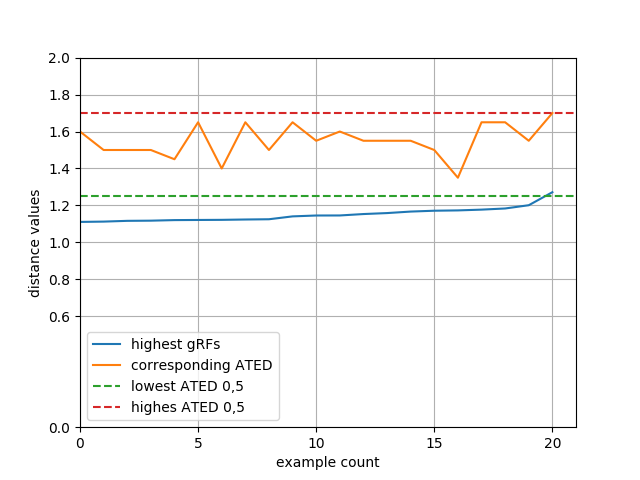
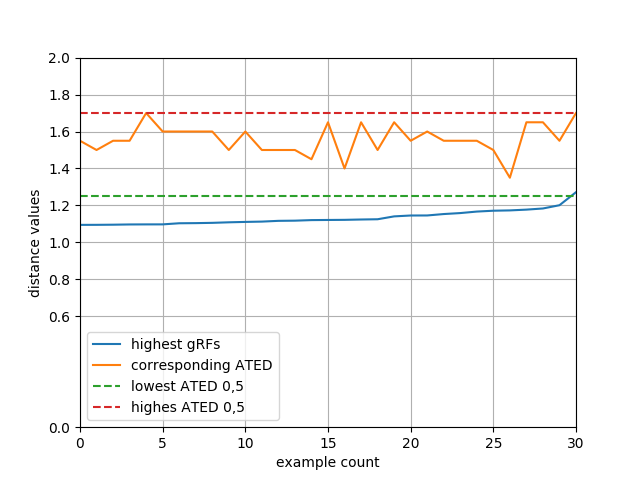
change from 20 to 30

diff --git a/tree_comparison.py b/tree_comparison.py
@@ -488,10 +488,10 @@ def create_graph(tree_size, number_of_trees, graph_type="zss_to_grf"):
                     zss_0_5[i] = tree_list[i]['ZSS_0.5'].get('cost') / float(tree_size)
             s_grf_1 = sorted(grf_1)
             s_zss_0_5 = [x for _,x in sorted(zip(grf_1,zss_0_5))]
-            low_grf_1 = [s_grf_1[i] for i in range(0,21)];
-            low_zss_0_5 = [s_zss_0_5[i] for i in range(0,21)];
-            high_grf_1 = [s_grf_1[i] for i in range(279,300)];
-            high_zss_0_5 = [s_zss_0_5[i] for i in range(279,300)];
+            low_grf_1 = [s_grf_1[i] for i in range(0,31)];
+            low_zss_0_5 = [s_zss_0_5[i] for i in range(0,31)];
+            high_grf_1 = [s_grf_1[i] for i in range(269,300)];
+            high_zss_0_5 = [s_zss_0_5[i] for i in range(269,300)];
             
             if len(low_grf_1) > 0 and len(low_zss_0_5) > 10:
                 maximum = max(np.amax(low_grf_1), np.amax(low_zss_0_5))
@@ -500,12 +500,12 @@ def create_graph(tree_size, number_of_trees, graph_type="zss_to_grf"):
                 plt.grid(True)
                 plt.ylim(0, max(2, 0.2 + maximum)) 
                 plt.yticks([0, 0.6, 0.8, 1, 1.2, 1.4, 1.6, 1.8, 2])
-                plt.xlim(0, 21) 
-                plt.xticks([0,5,10,15,20])
+                plt.xlim(0, 30) 
+                plt.xticks([0,5,10,15,20,25,30])
                 plt.plot(low_grf_1, label="lowest gRFs")
                 plt.plot(low_zss_0_5, label="corresponding ATED")
-                plt.plot((0,21),(min(zss_0_5),min(zss_0_5)),'--', label="lowest ATED 0,5")
-                plt.plot((0,21),(max(zss_0_5),max(zss_0_5)),'--', label="highest ATED 0,5")
+                plt.plot((0,30),(min(zss_0_5),min(zss_0_5)),'--', label="lowest ATED 0,5")
+                plt.plot((0,30),(max(zss_0_5),max(zss_0_5)),'--', label="highest ATED 0,5")
                 plt.ylabel('distance values')
                 plt.xlabel('example count')
                 plt.legend()
@@ -519,12 +519,12 @@ def create_graph(tree_size, number_of_trees, graph_type="zss_to_grf"):
                 plt.grid(True)
                 plt.ylim(0, max(2, 0.2 + maximum)) 
                 plt.yticks([0, 0.6, 0.8, 1, 1.2, 1.4, 1.6, 1.8, 2])
-                plt.xlim(0, 21)
-                plt.xticks([0,5,10,15,20])
+                plt.xlim(0, 30)
+                plt.xticks([0,5,10,15,20,25,30])
                 plt.plot(high_grf_1, label="highest gRFs")
                 plt.plot(high_zss_0_5, label="corresponding ATED")
-                plt.plot((0,21),(min(zss_0_5),min(zss_0_5)),'--', label="lowest ATED 0,5")
-                plt.plot((0,21),(max(zss_0_5),max(zss_0_5)),'--', label="highes ATED 0,5")
+                plt.plot((0,30),(min(zss_0_5),min(zss_0_5)),'--', label="lowest ATED 0,5")
+                plt.plot((0,30),(max(zss_0_5),max(zss_0_5)),'--', label="highes ATED 0,5")
                 plt.ylabel('distance values')
                 plt.xlabel('example count')
                 plt.legend()
@@ -539,7 +539,7 @@ def create_graph(tree_size, number_of_trees, graph_type="zss_to_grf"):
                 plt.ylim(0, max(2, 0.2 + maximum)) 
                 plt.yticks([0, 0.6, 0.8, 1, 1.2, 1.4, 1.6, 1.8, 2])
                 plt.xlim(0, 300) 
-                plt.xticks([0,20,75,150,225,280,300])
+                plt.xticks([0,30,75,150,225,270,300])
                 plt.plot(s_grf_1, label="all gRFs ascending")
                 plt.plot(s_zss_0_5, label="corresponding ATED")
                 plt.plot((0,300),(min(zss_0_5),min(zss_0_5)),'--', label="lowest ATED 0,5")
